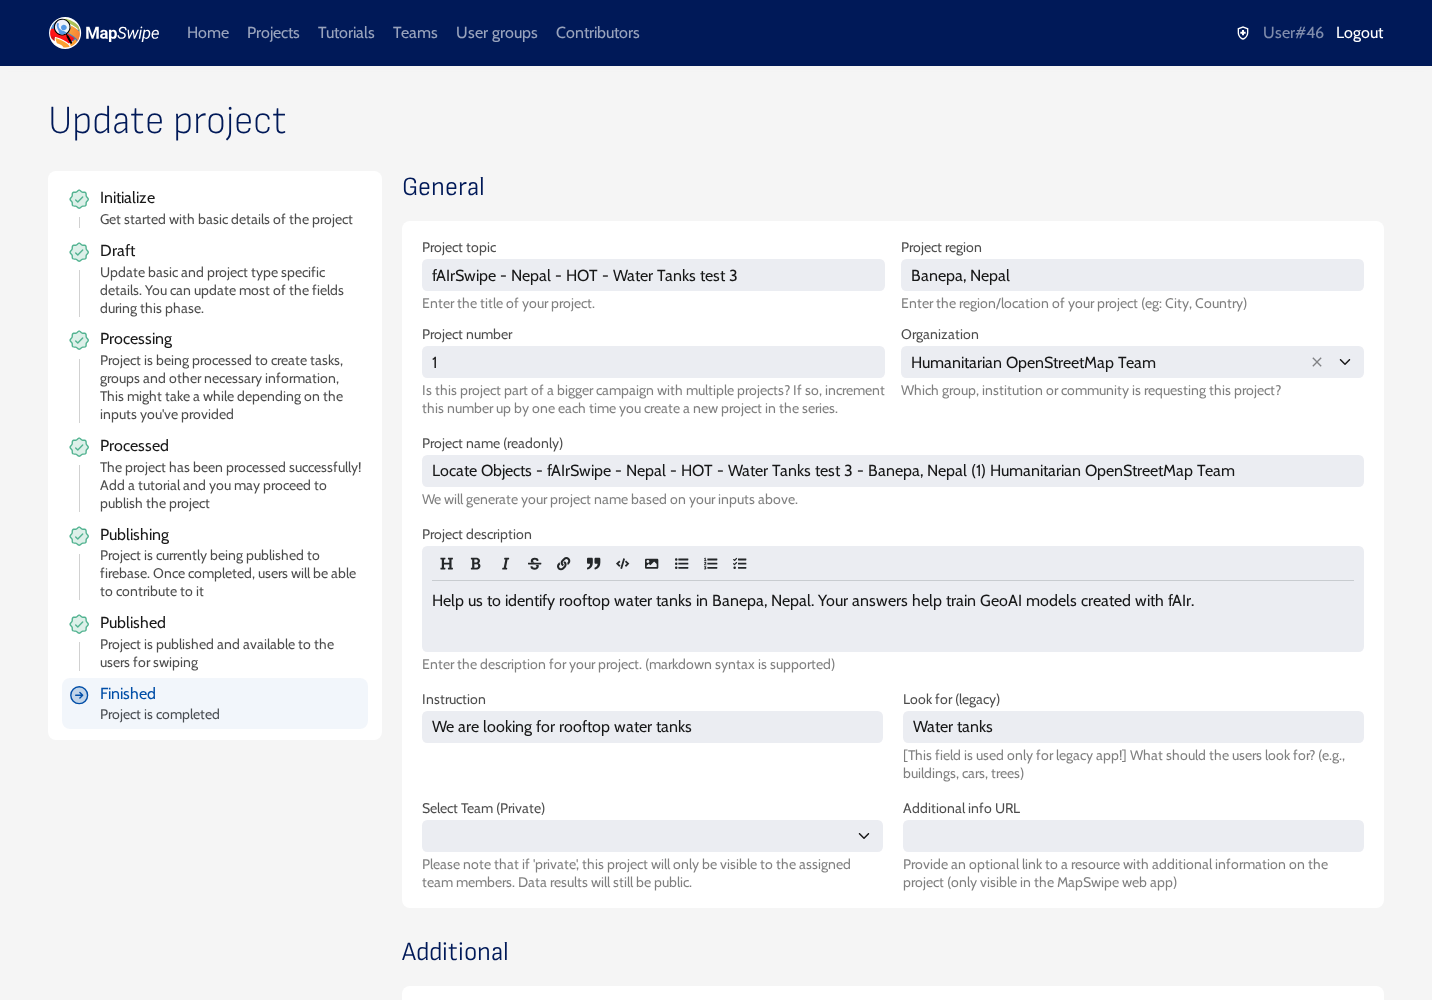
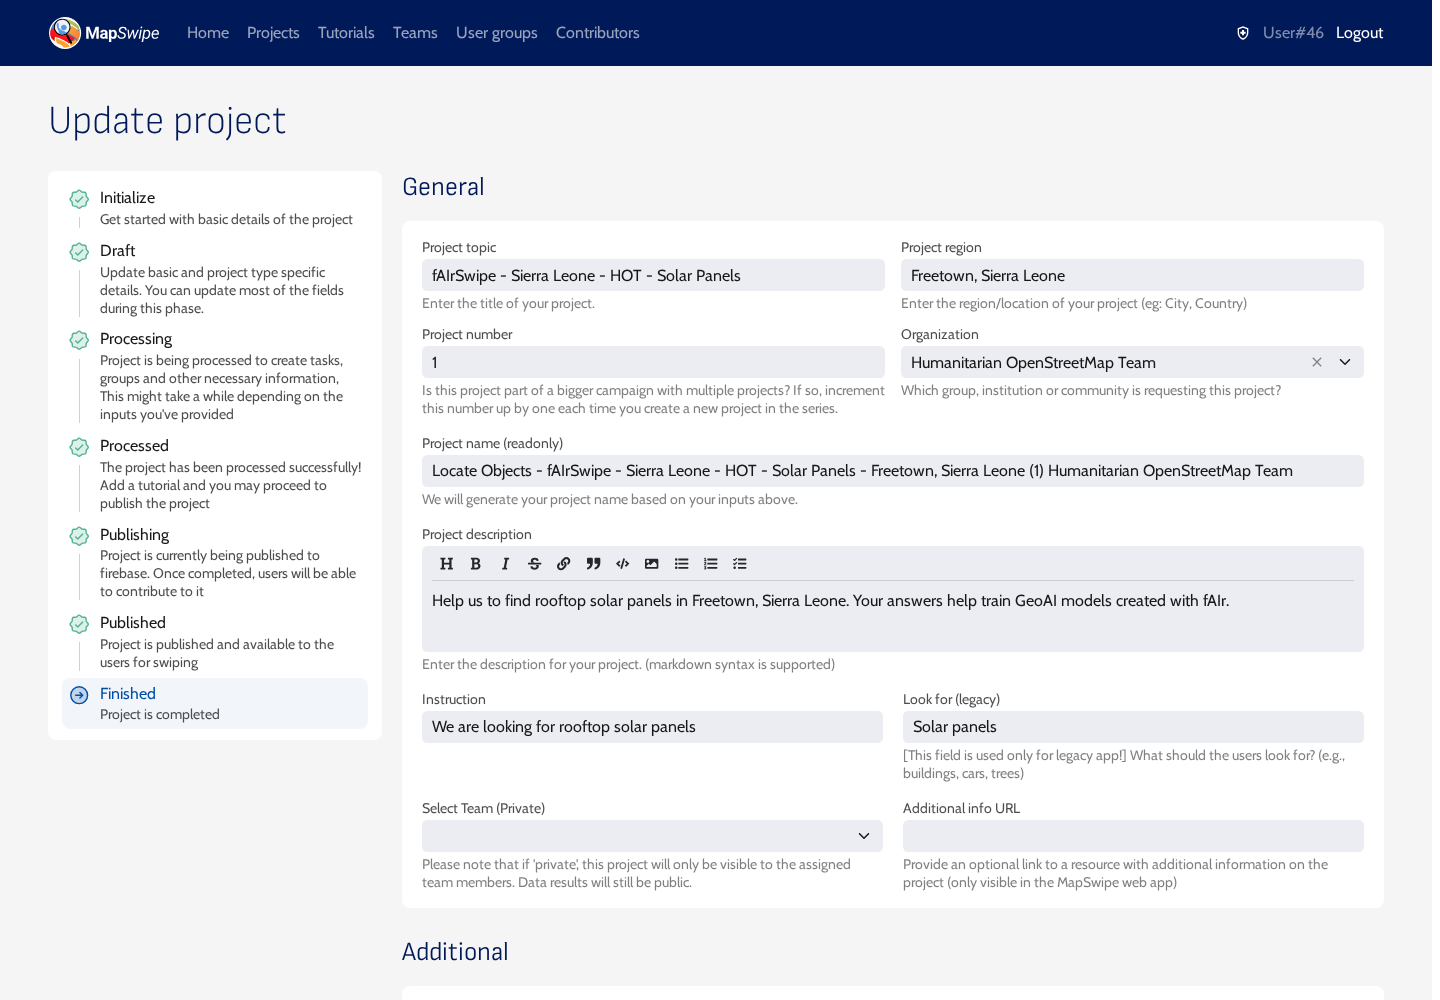
fix(tutorials): fixes tutorials to use freetown example

diff --git a/docs/builder/boxes.js b/docs/builder/boxes.js
@@ -46,7 +46,8 @@ function currentObjects() {
 }
 
 function objectCount() {
-  return `${currentObjects().length} objects on this tile.`;
+  const count = currentObjects().length;
+  return `${count} ${count === 1 ? "object" : "objects"} on this tile.`;
 }
 
 function drawObjects() {

diff --git a/docs/guides/create-a-project.md b/docs/guides/create-a-project.md
@@ -8,12 +8,19 @@ A project goes through these states in the manager: **Initialize**, **Draft**, *
 
 ## 1. Prepare the area, tile URL and cover image
 
-Find the image on <https://imagery.hotosm.org/browse> and click it. Its details open in the list on the left, with **Hide Details** and an **ID**. Copy the page address, or click **Copy TMS**. Check that the copied text contains the same ID: clicking **Show Details** on another image in the list opens that image instead.
+Find the image on <https://imagery.hotosm.org/browse> and click it. Its details open in the list on the left, with **Hide Details** and an **ID**. Copy the page address, or click **Copy TMS**. Check that the copied text contains the same ID: clicking **Show Details** on another image in the list opens that image instead. When several images cover the same place, prefer the newest; between images of similar date, pick the finest resolution. When copies differ only in compression or file size, compare them at the project zoom and pick the smallest file that looks the same.
 
 ![Copy TMS on imagery.hotosm.org](../assets/create/imagery-copy-tms.png)
 
 ??? note "Area across several images"
-    Most projects use one image; skip this when yours does. When the area needs several images, merge them in the [imagery merger](../helpers/index.md#imagery-merger) and use its tile URL in step 5. The area finder cuts the area of interest to one image, so draw the rectangle in a tool such as <https://geojson.io> and save it as `area-of-interest.geojson`.
+    Most projects use one image; skip this when yours does. When the area needs several images, merge them in the [imagery merger](../helpers/index.md#imagery-merger) and use its tile URL in step 5. For the area of interest, load each image in the area finder below and download an area of interest for each. Rename each download after its place, for example `wellington.geojson`, before loading the next image. Then combine the files in QGIS with [Merge vector layers](https://docs.qgis.org/latest/en/docs/user_manual/processing_algs/qgis/vectorgeneral.html#merge-vector-layers):
+
+    1. Drag the files onto the QGIS map.
+    2. Open **Vector > Data Management Tools > Merge Vector Layers**. Next to **Input layers**, click **…**, tick each layer and click **OK**.
+    3. Untick **Add source layer information** (QGIS 3.42 and later), which would write each file's local path into the result. Under **Merged**, click **…**, then **Save to File**, choose GeoJSON and name the file `area-of-interest.geojson`.
+    4. Click **Run**.
+
+    Keep one shape per place: a single rectangle around places far apart also covers the ground between them, outside the images, and volunteers see blank tiles there. Some tiles at the edges of each shape still fall outside the imagery, because MapSwipe groups tiles into rectangles three tiles tall and an even number of tiles wide, and every tile in a rectangle becomes a task ([grouping](https://github.com/mapswipe/mapswipe-backend/blob/develop/utils/geo/tile_grouping.py), [tasks](https://github.com/mapswipe/mapswipe-backend/blob/develop/project_types/tile_map_service/base/project.py)).
 
 Open the [area finder](../builder/area.html), paste the address and click **Load**. The red line shows where the image has imagery; white and black edges are left out. In the side panel, choose the **Project zoom** the project will use (20 for small objects such as solar panels, see step 5); the tile estimates follow it.
 
@@ -21,7 +28,7 @@ Open the [area finder](../builder/area.html), paste the address and click **Load
 
 Then:
 
-1. Click **Draw area of interest** and drag a rectangle over the part volunteers will map. The helper cuts it to the imagery and shows its size and an estimate of how many tiles MapSwipe will create.
+1. Click **Draw area of interest** and drag a rectangle over the part volunteers will map. The helper cuts it to the imagery and shows its size and an upper estimate of how many tiles MapSwipe will create, counted over the rectangle around the area.
 2. Click **Download area of interest** to save `area-of-interest.geojson`.
 3. Zoom the map to a view that shows the object well and click **Save map view as cover image** to save `cover-image.jpg`.
 4. Copy the **Tile URL for the manager**.
@@ -42,7 +49,7 @@ Log in to the manager dashboard and click **New Project** on the home page. Unde
 |---|---|---|
 | Project topic | Title following the naming convention on the [home page](../index.md), on stage and production alike | `fAIrSwipe - Sierra Leone - HOT - Solar Panels` |
 | Project region | City and country | `Freetown, Sierra Leone` |
-| Project number | `1`, or the next number when the same feature and area get several projects | `1` |
+| Project number | `1`, or the next number when the same feature and area get several projects. **Save Draft** fails with `Project name already exists in database` when a project that is not discarded or withdrawn has the same generated name ([source](https://github.com/mapswipe/mapswipe-backend/blob/develop/apps/project/serializers.py)); use the next number | `1` |
 | Organization | The organization requesting the data | `Humanitarian OpenStreetMap Team` |
 | Project description | Why the data is collected; markdown is supported | `Help us to find rooftop solar panels in Freetown, Sierra Leone. Your answers help train GeoAI models created with fAIr.` |
 | Instruction | What volunteers look for, shown above every tile | `We are looking for rooftop solar panels` |
@@ -61,8 +68,8 @@ Click **Save Draft**. The page reloads as **Update project** and the project is 
 Under **Additional**:
 
 - **Verification number**: how many volunteers see each tile. The form default and minimum is 3; use 5 or more for hard-to-see objects.
-- **Group size**: the width of one group in tiles; the form default is 25. Groups are three tiles tall, so one mapping session holds up to about three times this number ([source](https://github.com/mapswipe/mapswipe-backend/blob/main/utils/geo/tile_grouping.py)).
-- **Max tasks per user**: leave empty for no limit.
+- **Group size**: the width of one group in tiles; the form default is 25. Groups are three tiles tall, so one mapping session holds up to about three times this number ([source](https://github.com/mapswipe/mapswipe-backend/blob/develop/utils/geo/tile_grouping.py)).
+- **Max tasks per user**: leave it empty to let each volunteer map any number of tasks.
 - **Project cover image**: `cover-image.jpg` from step 1, or another `.jpg` or `.png` you have the rights to use.
 
 ![Additional section with the cover image](../assets/create/additional.png)
@@ -75,20 +82,20 @@ Under **Locate Objects**:
 2. **Imagery server**: check that **Custom** is selected.
 3. **Custom Imagery Server URL**: paste the tile URL from step 1. It looks like `https://api.imagery.hotosm.org/raster/collections/openaerialmap/items/69075f1de47603686de24fe8/tiles/WebMercatorQuad/{z}/{x}/{y}?assets=visual&nodata=0`.
 4. **Imagery Credits**: the image provider and licence, for example `OpenAerialMap, DroneTM, CC-BY 4.0`.
-5. **Min zoom** and **Max zoom**: the zoom levels the imagery supports, for example 14 and 22 for drone imagery.
-6. **Zoom level**: open the list (it starts at **18 - Pedestrian View**) and select the zoom volunteers see. Use **19** or **20 - Close-up View** for small objects such as solar panels.
+5. **Min zoom** and **Max zoom**: leave **Min zoom** empty and set **Max zoom** to 22. For a Locate project these fields only set the zoom range of the map previews in the manager (this one and the tutorial preview); the app receives the tile URL, credits and key ([source](https://github.com/mapswipe/mapswipe-backend/blob/develop/project_types/tile_map_service/locate/project.py)). The preview cannot be zoomed and by default fits the whole area (**AOI bounds**), so a larger area shows a lower zoom ([source](https://github.com/mapswipe/manager-dashboard/blob/develop/app/components/domain/GeoJsonMapSource/index.tsx)), and it doesn't load imagery below **Min zoom** ([source](https://github.com/mapswipe/manager-dashboard/blob/develop/app/components/domain/BaseMap/index.tsx)).
+6. **Zoom level**: open the list (it starts at **18 - Pedestrian View**) and select the zoom volunteers see. Use **19 - Front Door View** or **20 - Close-up View** for small objects such as solar panels. Each entry in the list describes what is visible at that zoom, for example **16 - Building View**: houses, small buildings.
 
-The map preview on the right shows the imagery once the URL is right.
+The map preview on the right shows the imagery once the URL is right. Below it, **AOI bounds** fits the whole area and **Zoom level** shows the chosen zoom at the centre of the rectangle around the area. When the area has two separate places, that centre can fall between them and show a blank map, so check the imagery with **AOI bounds** ([source](https://github.com/mapswipe/manager-dashboard/blob/develop/app/components/domain/RasterTileServerInput/index.tsx)).
 
 ![Tile server settings](../assets/create/tile-server.png)
 
 !!! warning "Use a tile URL from api.imagery.hotosm.org"
-    The manager draws its maps in the browser, which reads only tile servers that send CORS headers. `api.imagery.hotosm.org` sends them. `tiles.openaerialmap.org` links do not: with one, this preview and the tutorial preview stay blank. On stage, the web app still showed the imagery of such a project. The area and imagery settings are read-only after processing (step 7), so check that the preview shows imagery before you continue.
+    The manager draws its maps in the browser, which reads only tile servers that send CORS headers. `api.imagery.hotosm.org` sends them. `tiles.openaerialmap.org` links do not: with one, this preview and the tutorial preview stay blank. On stage, the web app still showed the imagery of such a project. A preview that turns white after **Min zoom** changes is caused by that setting: see the **Min zoom** and **Max zoom** item above. The area and imagery settings are read-only after processing (step 7), so check that the preview shows imagery before you continue.
 
 ## 6. Choose the grid and answers
 
-- **Sub grid Size**: no size is selected at first. Select how many cells each tile is split into: 4x4 (16 cells) suits most rooftop objects; use 8x8 for very small objects.
-- **Include 'Multiple Features' option**: keep it ticked when one cell can hold several objects. Without it, volunteers only choose between **No** and **Single Feature**. For trees, keep it: Multiple Features shows where trees grow in groups. Untick it when knowing whether a cell has the object is enough.
+- **Sub grid Size**: the form starts without a selected size. Select how many cells each tile is split into: 4x4 (16 cells) suits most rooftop objects; use 8x8 for very small objects.
+- **Include 'Multiple Features' option**: keep it ticked when one cell can hold several objects. Without it, volunteers only choose between **No** and **Feature Exists**: the manager and the web app show the Single Feature answer under that name, and the results still count it as answer `1` ([source](https://github.com/mapswipe/manager-dashboard/blob/develop/app/views/EditProject/UpdateProjectForm/LocateObjectProjectSpecifics/index.tsx)). For trees, keep it: Multiple Features shows where trees grow in groups. Untick it when knowing whether a cell has the object is enough.
 - **Export Meta**: a key and a value that describe the feature, for example its OpenStreetMap tag. The MapSwipe documentation describes it as an "additional metadata entry attached to exports" ([source](https://github.com/mapswipe/mapswipe-docs/blob/main/docs/project_types/locate_objects.md)). Both fields are required. Examples:
 
     | Feature | Key | Value |
@@ -112,6 +119,6 @@ Click **Process** at the top right and **Confirm**. Processing splits the area i
 
 ![Confirm processing](../assets/create/process-confirm.png)
 
-When processing finishes, the project is **Processed** and a **Publish** button appears. From now on the area and imagery settings are read-only. Before publishing, the project needs a tutorial: continue with [Create the tutorial](create-the-tutorial.md), which starts with checking for an existing one.
+When processing finishes, the project is **Processed** and a **Publish** button appears. From now on the area and imagery settings are read-only. On stage, **Update project** on a processed project saved only once a tutorial was selected under **Tutorial**, so other changes wait until the tutorial exists. Before publishing, the project needs a tutorial: continue with [Create the tutorial](create-the-tutorial.md), which starts with checking for an existing one.
 
 ![Processed project](../assets/create/processed.png)

diff --git a/docs/guides/create-the-tutorial.md b/docs/guides/create-the-tutorial.md
@@ -11,13 +11,13 @@ The tutorial runs the first time a volunteer opens the project. It has informati
 
 ## 1. Create the tutorial
 
-In the manager, open **Tutorials** and click **New Tutorial**. Enter a title, select the processed project under **Reference Project**, and click **Submit**. The tutorial copies the instruction, imagery and grid settings from that project.
+In the manager, open **Tutorials** and click **New Tutorial**. Enter a title, for example `fAIrSwipe - Solar Panels - Freetown`, select the processed project under **Reference Project**, and click **Submit**. The tutorial copies the instruction, imagery and grid settings from that project.
 
 ![New tutorial with its reference project](../assets/tutorial/new-tutorial.png)
 
 ## 2. Download the processed tasks
 
-On the tutorial page, under **Project Assets**, click **Download GeoJSON** next to **Processed Tasks**. The file lists every tile of the project with its `tile_x`, `tile_y` and `tile_z`. If it opens in a new browser tab instead of downloading, save that tab with ++ctrl+s++ as `processed_geometry.geojson`.
+On the tutorial page, under **Project Assets**, click **Download GeoJSON** next to **Processed Tasks**. The file lists every tile of the project with its `tile_x`, `tile_y` and `tile_z`. If it opens in a new browser tab, save that tab with ++ctrl+s++ as `processed_geometry.geojson`.
 
 ![Project assets with the processed tasks download](../assets/tutorial/project-assets.png)
 
@@ -39,7 +39,7 @@ Open the [tutorial builder](../builder/index.html) in a new browser tab.
 
 ![Tutorial builder with the tile URL and tasks file](../assets/tutorial/builder-setup.png)
 
-In the side panel, select the same **Sub-grid** size as the project. Zoom in with the **+** button or the mouse wheel until the features are clear, then click a tile to add it as a scenario. The tile opens on the right with its grid. Click each cell to set its answer: one click for **Single Feature** (green), two for **Multiple Features** (yellow), three to go back to **No**.
+In the side panel, select the same **Sub-grid** size as the project. Zoom in with the mouse wheel over the part you want until the features are clear (the **+** button zooms toward the centre of the map, which can fall between two places), then click a tile to add it as a scenario. Pick tiles that the imagery covers edge to edge. The tile opens on the right with its grid. Click each cell to set its answer: one click for **Single Feature** (green), two for **Multiple Features** (yellow), three to go back to **No**.
 
 ![Clicking a tile, then its cells, in the tutorial builder](../assets/tutorial/tutorial-builder.gif){ loading=lazy }
 
@@ -47,11 +47,11 @@ Add three to five scenarios that cover the cases volunteers will meet:
 
 - a tile with one or two clear objects,
 - a tile with several objects close together,
-- a tile with no object, ideally with things that look similar, so volunteers learn what to leave out.
+- a tile without the object, ideally with things that look similar, so volunteers learn what to leave out.
 
 Click **Download scenarios**. The file has one feature per scenario, numbered in the order you added them, with the answer of every cell.
 
-If the project leaves out **Multiple Features**, mark cells only as **Single Feature**. The manager rejects a file with Multiple Features answers for such a project.
+If the project leaves out **Multiple Features**, mark cells only as **Single Feature** (one click). The manager and the web app show this answer as **Feature Exists**. The manager rejects a file with Multiple Features answers for such a project.
 
 !!! tip "Check what you mark"
     Volunteers cannot leave a scenario until their taps match your answers exactly. Leave out tiles where you are unsure whether something is the object.
@@ -73,6 +73,6 @@ The phone preview on the right shows the result, with the tile imagery under the
 ![Scenario with messages, icons and cell answers](../assets/tutorial/scenario.png)
 
 !!! note "Preview without imagery"
-    When the phone preview shows the cells on a dark background, the reference project's tile URL usually sends no CORS headers (see the warning in [Add the area and imagery](create-a-project.md#5-add-the-area-and-imagery)). The tile URL and the reference project cannot be changed later. Create the project again with the `api.imagery.hotosm.org` tile URL and make the tutorial from that project.
+    When the phone preview shows the cells on a dark background, the reference project's tile URL usually doesn't send CORS headers (see the warning in [Add the area and imagery](create-a-project.md#5-add-the-area-and-imagery)). The tile URL and the reference project cannot be changed later. Create the project again with the `api.imagery.hotosm.org` tile URL and make the tutorial from that project.
 
 Click **Update tutorial**, then continue with [Publish and check the project](publish.md).

diff --git a/docs/helpers/index.md b/docs/helpers/index.md
@@ -49,9 +49,9 @@ Use it when the project area needs more than one image.
     The tile URL lists the image IDs (`/raster/collections/openaerialmap/tiles/...?ids=<id>,<id>`), and the HOT imagery API merges those images on every tile request ([titiler-pgstac documentation](https://stac-utils.github.io/titiler-pgstac/latest/endpoints/collections_endpoints/)). To change the mosaic, edit the IDs in the URL.
 
     - Where images overlap, the newest is drawn on top: pgstac sorts items by `datetime` descending by default ([source](https://github.com/stac-utils/pgstac/blob/main/src/pgstac/sql/002d_keyset.sql)).
-    - The URL sets `exitwhenfull=false` and `skipcovered=false`, so an older image still fills the parts of a tile where a newer image has no pixels.
+    - The URL sets `exitwhenfull=false` and `skipcovered=false`, so an older image still fills the parts of a tile where a newer image doesn't have pixels.
     - White or near-black edges of a newer image are drawn on top of older imagery. When they hide what volunteers need to see, leave that image out.
-    - The area finder reads one image at a time. For an area across several images, draw the area of interest in a tool such as <https://geojson.io>.
+    - The area finder reads one image at a time. For an area across several images, download an area of interest for each image and combine them into one file, as in [Create a Locate project](../guides/create-a-project.md#1-prepare-the-area-tile-url-and-cover-image).
 
 ## Results map
 
@@ -96,7 +96,7 @@ Use it on a finished project to mark each object on the tiles volunteers marked,
 
 1. In the [auto labeller](../builder/boxes.html), paste the project link, set the **Volunteer share**, for example 50, and click **Load**. The first load downloads the [EdgeTAM](https://huggingface.co/onnx-community/EdgeTAM-ONNX) model, about 41 MB.
 2. Each tile is darker outside the cells volunteers marked, with a yellow line around them. For each group of touching objects, such as the panels of one array, tap its middle or drag a box close around it.
-3. When the result is wrong, press **Undo**, which removes the newest object on the tile, and drag closer. When it stays wrong, turn on **Draw**, which stays on until you turn it off: drag along one side of the object, then tap the opposite side. A tap with no drag before it still asks the model. With **Outlines**, a drag keeps an upright box as drawn.
+3. When the result is wrong, press **Undo**, which removes the newest object on the tile, and drag closer. When it stays wrong, turn on **Draw**, which stays on until you turn it off: drag along one side of the object, then tap the opposite side. A tap before any drag still asks the model. With **Outlines**, a drag keeps an upright box as drawn.
 4. Move between tiles with **Previous** and **Next**.
 5. Choose the **Output**, set the **Object name**, for example `solar panel`, and click **Download dataset**.
 

diff --git a/docs/guides/download-results.md b/docs/guides/download-results.md
@@ -22,9 +22,9 @@ The website is rebuilt every six hours ([source](https://github.com/mapswipe/web
 
 ### From the MapSwipe API (stage and production)
 
-The stage website (<https://website-stage.mapswipe.org/>) may not list new stage projects. Any project's file links are also available from the MapSwipe API without signing in. Open this link in the browser, after changing `894` in it to your project number (the number in the manager address, `/project/<number>/edit`):
+The stage website (<https://website-stage.mapswipe.org/>) may not list new stage projects. Any project's file links are also available from the MapSwipe API without signing in. Open this link in the browser, after changing `923` in it to your project number (the number in the manager address, `/project/<number>/edit`):
 
-[List the result files of stage project 894](https://backend-stage.mapswipe.org/graphql/?query=%7B%20publicProject%28id%3A%20%22894%22%29%20%7B%20exportAggregatedResults%20%7B%20file%20%7B%20url%20%7D%20%7D%20exportAggregatedResultsWithGeometry%20%7B%20file%20%7B%20url%20%7D%20%7D%20exportResults%20%7B%20file%20%7B%20url%20%7D%20%7D%20exportTasks%20%7B%20file%20%7B%20url%20%7D%20%7D%20exportGroups%20%7B%20file%20%7B%20url%20%7D%20%7D%20exportUsers%20%7B%20file%20%7B%20url%20%7D%20%7D%20exportHistory%20%7B%20file%20%7B%20url%20%7D%20%7D%20%7D%20%7D)
+[List the result files of stage project 923](https://backend-stage.mapswipe.org/graphql/?query=%7B%20publicProject%28id%3A%20%22923%22%29%20%7B%20exportAggregatedResults%20%7B%20file%20%7B%20url%20%7D%20%7D%20exportAggregatedResultsWithGeometry%20%7B%20file%20%7B%20url%20%7D%20%7D%20exportResults%20%7B%20file%20%7B%20url%20%7D%20%7D%20exportTasks%20%7B%20file%20%7B%20url%20%7D%20%7D%20exportGroups%20%7B%20file%20%7B%20url%20%7D%20%7D%20exportUsers%20%7B%20file%20%7B%20url%20%7D%20%7D%20exportHistory%20%7B%20file%20%7B%20url%20%7D%20%7D%20%7D%20%7D)
 
 The browser shows a short JSON text with one `url` per file. Open a `url` to download that file. For production projects, change `backend-stage.mapswipe.org` in the link to `backend.mapswipe.org`.
 

diff --git a/docs/guides/publish.md b/docs/guides/publish.md
@@ -34,7 +34,7 @@ Open the web app for the same environment (<https://web.mapswipe.org/dev/> for s
 
 ![Project details in the web app](../assets/publish/web-project.png)
 
-The tutorial opens with tabs along the top: **How to contribute?**, one tab per information page, and **Tutorial**. Move between them with the arrows at the bottom. **Close** skips the tutorial at any time.
+The tutorial opens with tabs along the top: **How to contribute?**, one tab per information page, and **Tutorial**. Move between them with the arrows at the bottom. **Close** skips the tutorial at any time. On stage, once an account had saved results for the project, **Contribute** opened mapping directly, without the tutorial; check the tutorial before you map.
 
 ![How to contribute tab](../assets/publish/web-how-to-contribute.png)
 
